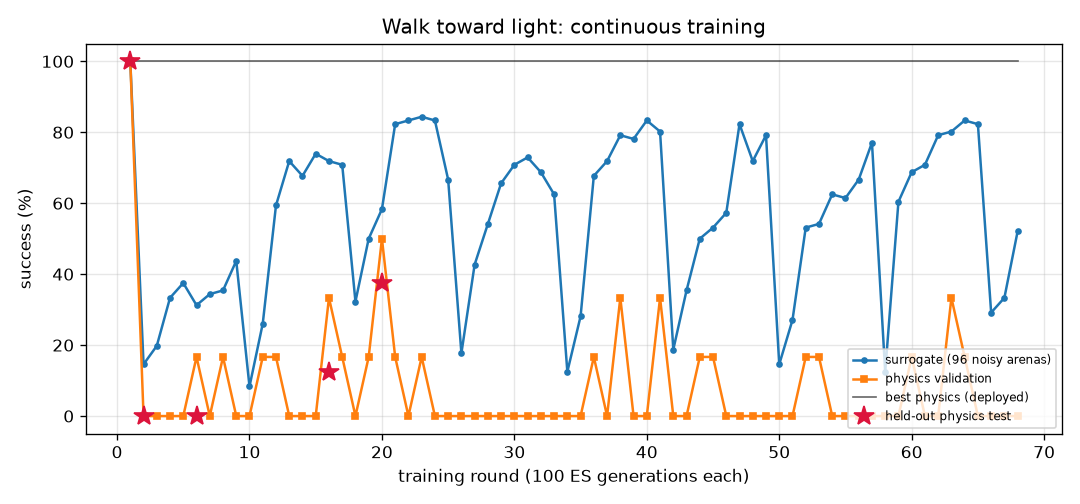
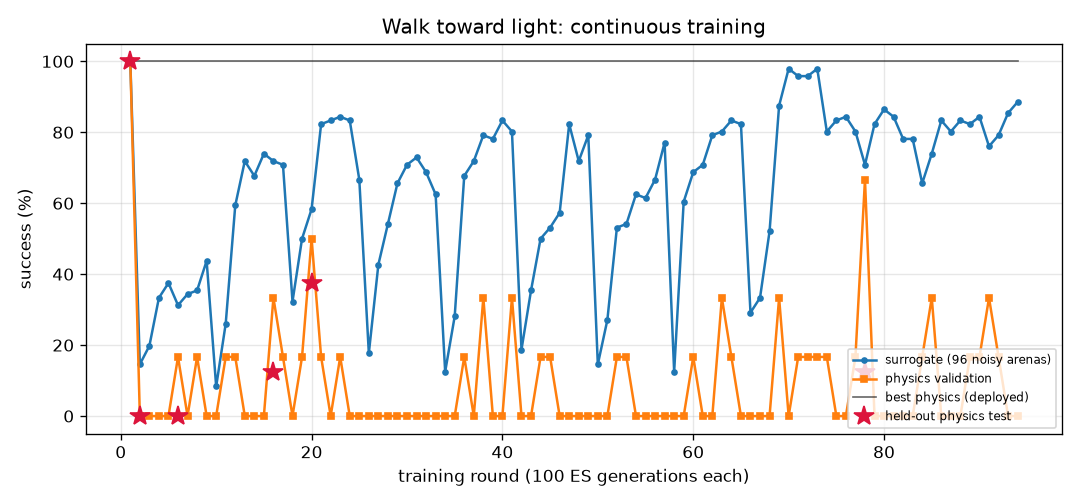
FlyLab: continuous training progress
- walk_forward: optimal, physics val 100% of 24, round 28
- turn: optimal, physics val 96% of 24, round 3
- goto: optimal, physics val 100% of 24, round 33
- odor_seek: optimal, physics val 100% of 24, round 61
- odor_avoid: level 1/3, physics val 100% of 6, round 200
- light_seek: level 1/3, physics val 67% of 6, round 94
- light_avoid: optimal, physics val 100% of 24, round 21

diff --git a/projects/09_flylab/training/light_seek/REPORT.md b/projects/09_flylab/training/light_seek/REPORT.md
@@ -1,48 +1,22 @@
 # Walk toward light (`light_seek`) — training report
 
-*Auto-generated by `train_brains.py`, last updated 2026-09-26T01:12:10.*
+*Auto-generated by `train_brains.py`, last updated 2026-09-26T02:11:33.*
 
 ![curve](curve.png)
 
 | | |
 |---|---|
-| rounds | 68 |
-| ES generations | 6800 |
-| physics runs | 546 |
+| rounds | 94 |
+| ES generations | 9400 |
+| physics runs | 710 |
 | status | level 1/3 |
-| best brain | round 20: physics validation **50%** on 6 arenas, surrogate 58% |
-| held-out physics test | **38%** on 8 unseen arenas (95% CI 14%-69%) (errors: [0.04, 0.38, 0.09, 0.24, 0.19, 0.45, 0.21, 0.12]) |
+| best brain | round 78: physics validation **67%** on 6 arenas, surrogate 71% |
+| held-out physics test | **12%** on 8 unseen arenas (95% CI 2%-47%) (errors: [3.32, 0.15, 2.14, 1.15, 0.34, 0.1, 0.04, 3.4]) |
 
 Physics error per arena: mm from target at the end (< 1.5 and standing still = success).
 
 | round | level | gens | sigma | surrogate | physics val | val errors | test | note |
 |---:|---:|---:|---:|---:|---:|---|---:|---|
-| 29 | 1 | 2900 | 0.050 | 66% | 0% | [0.1, 2.72, 0.06, 0.11, 0.08, 0.12] |  |  |
-| 30 | 1 | 3000 | 0.043 | 71% | 0% | [0.25, 0.72, 0.45, 0.7, 0.47, 0.48] |  |  |
-| 31 | 1 | 3100 | 0.040 | 73% | 0% | [0.64, 0.7, 0.28, 0.89, 0.52, 0.82] |  |  |
-| 32 | 1 | 3200 | 0.039 | 69% | 0% | [2.32, 0.48, 0.13, 3.62, 0.24, 0.5] |  |  |
-| 33 | 1 | 3300 | 0.042 | 62% | 0% | [0.57, 0.11, 0.9, 1.9, 0.21, 0.53] |  | reseed: fresh weights |
-| 34 | 1 | 3400 | 0.080 | 12% | 0% | [0.55, 0.79, 0.67, 0.86, 0.33, 1.77] |  |  |
-| 35 | 1 | 3500 | 0.073 | 28% | 0% | [0.71, 0.6, 0.42, 0.18, 0.55, 0.37] |  |  |
-| 36 | 1 | 3600 | 0.064 | 68% | 17% | [0.17, 0.17, 0.32, 0.29, 0.25, 0.16] |  |  |
-| 37 | 1 | 3700 | 0.042 | 72% | 0% | [0.05, 0.22, 0.59, 0.18, 0.05, 0.05] |  |  |
-| 38 | 1 | 3800 | 0.040 | 79% | 33% | [0.19, 4.42, 0.1, 4.22, 0.32, 3.59] |  |  |
-| 39 | 1 | 3900 | 0.036 | 78% | 0% | [1.44, 0.27, 0.05, 0.87, 0.09, 4.41] |  |  |
-| 40 | 1 | 4000 | 0.036 | 83% | 0% | [0.73, 0.2, 0.09, 0.04, 0.15, 0.46] |  |  |
-| 41 | 1 | 4100 | 0.033 | 80% | 33% | [0.49, 0.27, 0.23, 0.42, 0.26, 0.26] |  | reseed: fresh weights |
-| 42 | 1 | 4200 | 0.080 | 19% | 0% | [0.09, 0.08, 0.18, 0.1, 0.1, 0.12] |  |  |
-| 43 | 1 | 4300 | 0.070 | 35% | 0% | [0.05, 0.09, 0.13, 0.06, 0.14, 0.19] |  |  |
-| 44 | 1 | 4400 | 0.060 | 50% | 17% | [0.18, 0.34, 0.11, 0.24, 0.16, 0.03] |  |  |
-| 45 | 1 | 4500 | 0.052 | 53% | 17% | [0.05, 0.03, 0.13, 0.24, 0.03, 0.04] |  |  |
-| 46 | 1 | 4600 | 0.050 | 57% | 0% | [0.14, 0.1, 0.24, 0.13, 0.11, 0.07] |  |  |
-| 47 | 1 | 4700 | 0.048 | 82% | 0% | [0.43, 0.12, 0.26, 0.11, 0.44, 0.05] |  |  |
-| 48 | 1 | 4800 | 0.034 | 72% | 0% | [0.3, 0.24, 0.33, 0.15, 0.45, 0.15] |  |  |
-| 49 | 1 | 4900 | 0.040 | 79% | 0% | [0.23, 0.26, 0.59, 0.5, 0.43, 0.35] |  | reseed: fresh weights |
-| 50 | 1 | 5000 | 0.080 | 15% | 0% | [0.12, 0.52, 0.57, 0.45, 0.89, 0.11] |  |  |
-| 51 | 1 | 5100 | 0.072 | 27% | 0% | [0.27, 0.41, 0.29, 0.32, 0.97, 4.63] |  |  |
-| 52 | 1 | 5200 | 0.065 | 53% | 17% | [0.06, 0.12, 0.25, 0.22, 0.08, 0.16] |  |  |
-| 53 | 1 | 5300 | 0.050 | 54% | 17% | [0.34, 0.31, 0.05, 0.2, 0.18, 0.13] |  |  |
-| 54 | 1 | 5400 | 0.050 | 62% | 0% | [0.37, 0.06, 0.07, 0.09, 0.07, 0.77] |  |  |
 | 55 | 1 | 5500 | 0.045 | 61% | 0% | [0.79, 0.81, 0.71, 4.43, 0.22, 1.13] |  |  |
 | 56 | 1 | 5600 | 0.046 | 67% | 0% | [0.13, 0.25, 0.29, 0.61, 0.14, 0.09] |  |  |
 | 57 | 1 | 5700 | 0.043 | 77% | 0% | [0.39, 0.25, 0.11, 0.39, 0.45, 0.37] |  | reseed: fresh weights |
@@ -57,3 +31,29 @@ Physics error per arena: mm from target at the end (< 1.5 and standing still = s
 | 66 | 1 | 6600 | 0.080 | 29% | 0% | [0.66, 0.92, 1.69, 3.41, 0.48, 0.62] |  |  |
 | 67 | 1 | 6700 | 0.064 | 33% | 0% | [3.96, 0.73, 0.66, 0.09, 0.26, 0.84] |  |  |
 | 68 | 1 | 6800 | 0.061 | 52% | 0% | [2.16, 0.25, 0.36, 1.49, 2.08, 0.63] |  |  |
+| 69 | 1 | 6900 | 0.051 | 88% | 33% | [0.33, 0.63, 3.77, 1.5, 4.04, 0.28] |  |  |
+| 70 | 1 | 7000 | 0.031 | 98% | 0% | [0.97, 0.52, 0.03, 0.48, 3.59, 1.32] |  |  |
+| 71 | 1 | 7100 | 0.025 | 96% | 17% | [0.36, 0.56, 0.32, 0.58, 0.15, 0.85] |  |  |
+| 72 | 1 | 7200 | 0.026 | 96% | 17% | [3.12, 0.42, 3.92, 0.54, 0.27, 1.99] |  |  |
+| 73 | 1 | 7300 | 0.026 | 98% | 17% | [0.86, 0.16, 0.11, 1.33, 4.13, 0.02] |  | restart from best |
+| 74 | 1 | 7400 | 0.047 | 80% | 17% | [0.19, 0.21, 0.07, 0.08, 0.73, 0.36] |  |  |
+| 75 | 1 | 7500 | 0.035 | 83% | 0% | [0.09, 0.38, 0.21, 0.05, 0.23, 0.28] |  |  |
+| 76 | 1 | 7600 | 0.033 | 84% | 0% | [0.05, 0.16, 0.06, 0.0, 0.45, 1.02] |  |  |
+| 77 | 1 | 7700 | 0.033 | 80% | 17% | [0.08, 1.03, 0.12, 0.2, 0.42, 0.47] |  |  |
+| 78 | 1 | 7800 | 0.035 | 71% | 67% | [0.32, 4.11, 0.27, 0.11, 0.32, 0.29] | 12% | new best |
+| 79 | 1 | 7900 | 0.040 | 82% | 0% | [0.17, 0.66, 0.82, 0.07, 0.58, 0.59] |  |  |
+| 80 | 1 | 8000 | 0.034 | 86% | 0% | [0.04, 2.35, 3.43, 0.06, 3.16, 3.13] |  |  |
+| 81 | 1 | 8100 | 0.032 | 84% | 0% | [0.31, 0.35, 0.05, 0.3, 2.16, 0.53] |  |  |
+| 82 | 1 | 8200 | 0.033 | 78% | 0% | [0.09, 0.31, 0.07, 0.05, 0.34, 3.92] |  | restart from best |
+| 83 | 1 | 8300 | 0.040 | 78% | 0% | [0.21, 2.54, 1.1, 2.2, 3.91, 1.17] |  |  |
+| 84 | 1 | 8400 | 0.036 | 66% | 17% | [2.59, 3.48, 0.2, 0.14, 0.25, 0.38] |  |  |
+| 85 | 1 | 8500 | 0.043 | 74% | 33% | [0.05, 0.1, 3.83, 0.13, 2.38, 0.05] |  |  |
+| 86 | 1 | 8600 | 0.039 | 83% | 0% | [0.21, 0.26, 3.43, 0.3, 0.1, 2.02] |  | restart from best |
+| 87 | 1 | 8700 | 0.040 | 80% | 0% | [0.04, 0.54, 0.08, 0.12, 0.18, 0.13] |  |  |
+| 88 | 1 | 8800 | 0.035 | 83% | 0% | [4.18, 0.03, 4.26, 0.07, 3.79, 0.09] |  |  |
+| 89 | 1 | 8900 | 0.033 | 82% | 17% | [0.11, 0.95, 0.2, 0.05, 3.64, 1.89] |  |  |
+| 90 | 1 | 9000 | 0.034 | 84% | 17% | [0.29, 1.86, 0.81, 2.92, 1.9, 0.02] |  | restart from best |
+| 91 | 1 | 9100 | 0.040 | 76% | 33% | [0.16, 0.25, 0.47, 0.02, 0.12, 0.16] |  |  |
+| 92 | 1 | 9200 | 0.037 | 79% | 17% | [0.72, 3.66, 0.32, 0.38, 0.44, 0.23] |  |  |
+| 93 | 1 | 9300 | 0.036 | 85% | 0% | [0.11, 0.54, 0.08, 0.06, 3.08, 1.44] |  |  |
+| 94 | 1 | 9400 | 0.032 | 89% | 0% | [0.15, 0.48, 0.17, 0.03, 2.65, 0.27] |  | restart from best |

diff --git a/projects/09_flylab/training/TRAINING.md b/projects/09_flylab/training/TRAINING.md
@@ -1,6 +1,6 @@
 # FlyLab brains — continuous training log
 
-*Auto-generated by `train_brains.py`, last updated 2026-09-26T01:12:10.*
+*Auto-generated by `train_brains.py`, last updated 2026-09-26T02:11:33.*
 
 Every skill has its own brain and its own training process: surrogate ES rounds, physics validation in MuJoCo, keep-the-best selection, and a held-out physics test that is never used for selection. See each skill's report for its full round-by-round history. Mastery is progressive: passing a level (100% physics validation, >=95% surrogate) doubles the validation and test arena sets; a brain is **optimal** once it holds up at level 3 (>=95% of 24 validation arenas) AND scores >=90% on the 32 held-out test arenas. Test columns show 95% Wilson confidence intervals.
 
@@ -11,5 +11,5 @@ Every skill has its own brain and its own training process: surrogate ES rounds,
 | [Go to a location](goto/REPORT.md) | 33 | 3300 | 422 | 100% | 100% of 24 | 100% of 32 (CI 89-100%) | **optimal** |
 | [Find food by smell](odor_seek/REPORT.md) | 61 | 6100 | 574 | 100% | 100% of 24 | 100% of 32 (CI 89-100%) | **optimal** |
 | [Escape a bad smell](odor_avoid/REPORT.md) | 200 | 20000 | 1346 | 89% | 100% of 6 | 100% of 8 (CI 68-100%) | level 1/3 |
-| [Walk toward light](light_seek/REPORT.md) | 68 | 6800 | 546 | 58% | 50% of 6 | 38% of 8 (CI 14-69%) | level 1/3 |
+| [Walk toward light](light_seek/REPORT.md) | 94 | 9400 | 710 | 71% | 67% of 6 | 12% of 8 (CI 2-47%) | level 1/3 |
 | [Hide from light](light_avoid/REPORT.md) | 21 | 2100 | 518 | 98% | 100% of 24 | 100% of 32 (CI 89-100%) | **optimal** |
